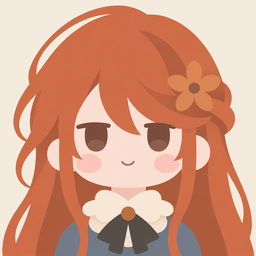
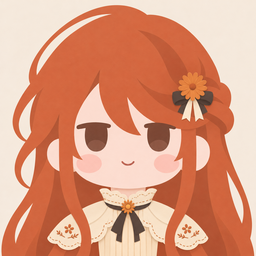
Restore details and colors from the character design

diff --git a/docs/STATUS.md b/docs/STATUS.md
@@ -24,7 +24,7 @@
 
 ## 正在做 / 下一步（按顺序）
 
-**C8 图标小样**：已准备铜红长发文学少女的纸墨配色 Q 版图标小样（正视、浅笑），放在 `design/incoming/app-icon/`，待主人选定方向。选定后再制作三种正式外观并接入 App。
+**C8 图标小样**：已准备铜红长发文学少女的Q 版图标小样（保留原立绘服装与配色、正视浅笑），放在 `design/incoming/app-icon/`，待主人选定方向。选定后再制作三种正式外观并接入 App。
 
 1. **验证宠物这一包**：编译、截图核对（聊天页、宠物设置）。
 2. **称谓铺满**：出错提示（`AgentKit` 的 `Explain` 在包里，需要在 App 侧按标题映射到 `errors.*`）、加载提示、其余空状态和页面里的写死文字，逐步改成 `L.t`。
